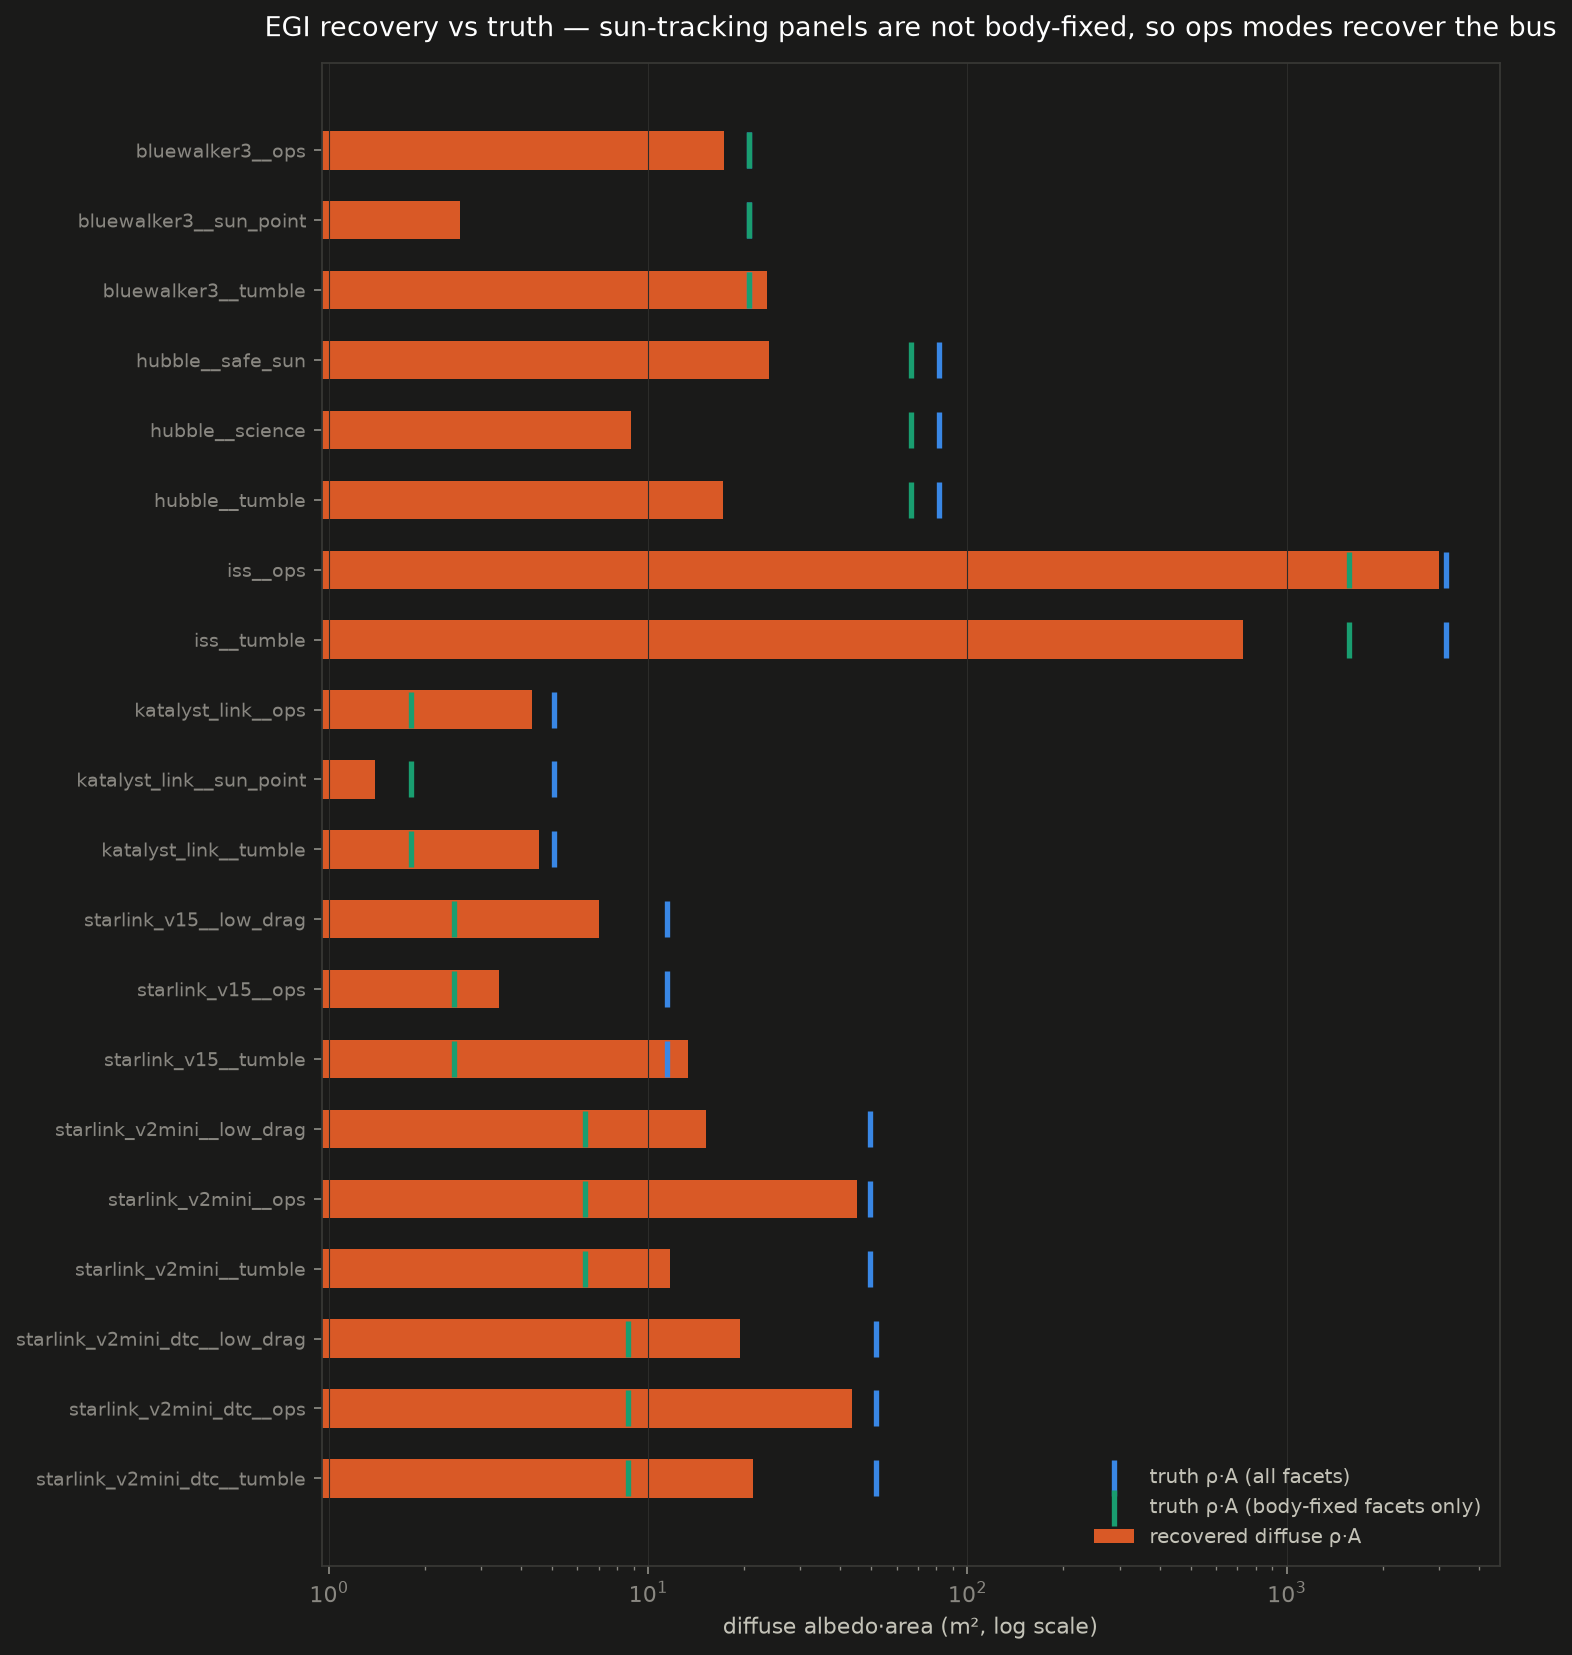
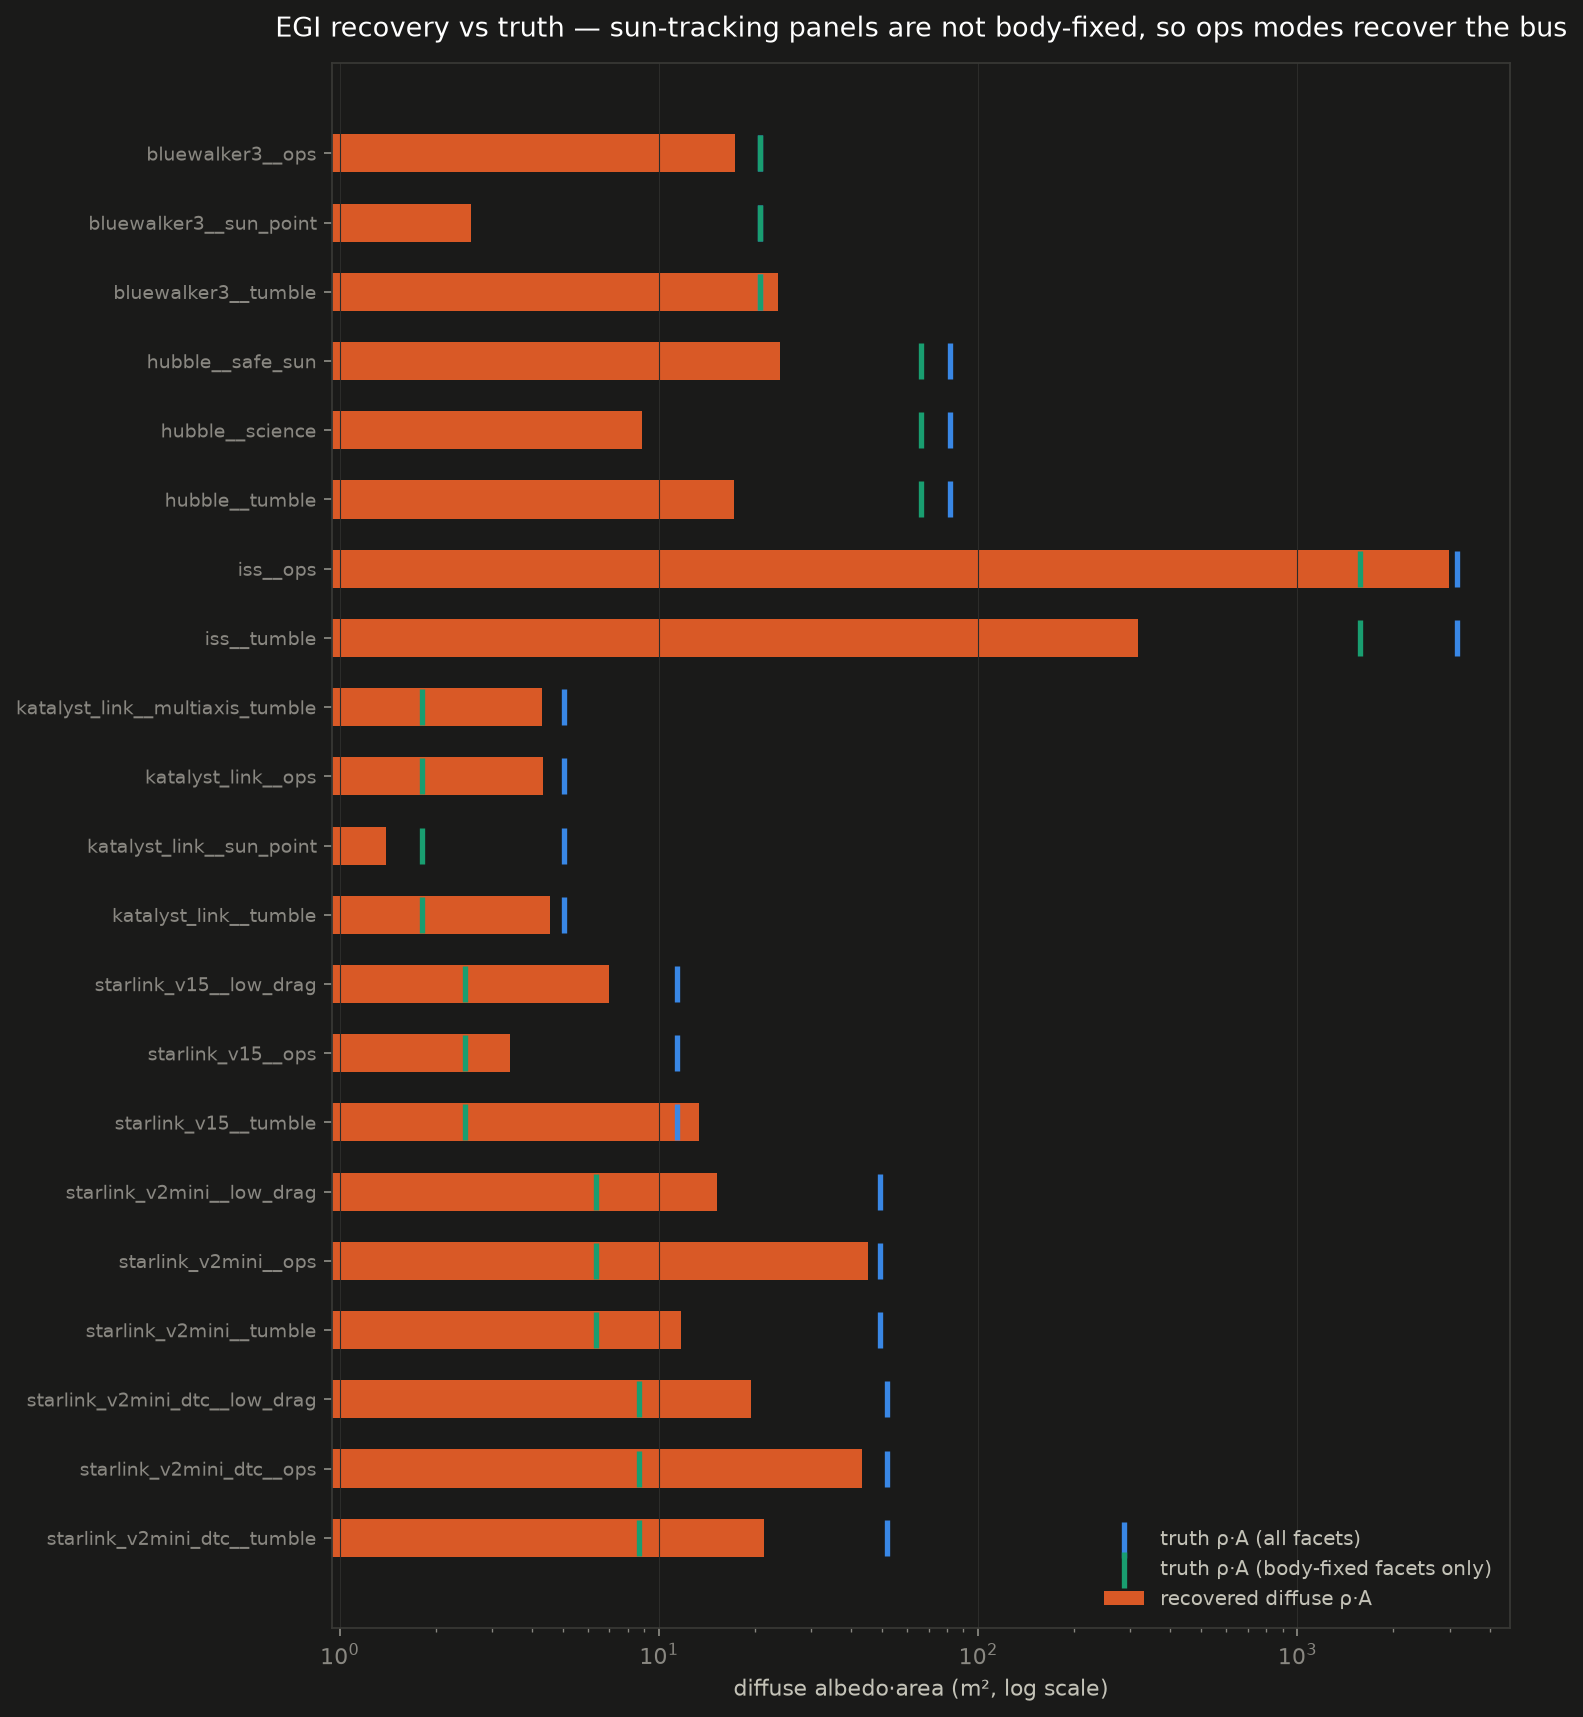
Round 6 final: censored likelihood, torque-free fit, deviation alerting
- ISS censoring analysis: size information restored (truth-attitude ISS
  cost 0.18 vs impostors 8.8+); global attitude search under 80%
  censoring documented open with the ladder recovering pole exactly and
  the second harmonic to 3%
- Torque-free window-laddered fit halves attitude error vs uniform spin
  (97.8 -> 50.7 deg window, 97.6 -> 56.0 deg 4 h prediction); multiaxis
  movie renders the Tier-3 fit in the right panel
- Deviation scan 20/21 with symmetry-group and array-config refinement;
  charts 10-11; README round-6 sections

Claude-Session: https://claude.ai/code/session_018HUFR9zZ7uRcLJ1h3DAMGJ

diff --git a/scripts/make_movies.py b/scripts/make_movies.py
@@ -33,7 +33,8 @@ from matplotlib.animation import FuncAnimation, PillowWriter
 from mpl_toolkits.mplot3d.art3d import Poly3DCollection
 
 from photometry import scenarios as sc
-from photometry.attitude import FixedInertial, LvlhHold, PrincipalAxisSpin
+from photometry.attitude import (FixedInertial, LvlhHold, PrincipalAxisSpin,
+                                 TorqueFreeTumble)
 from photometry.frames import in_earth_shadow, lvlh_basis, minimal_rotation_between, unit
 from photometry.inversion.minkowski import hull_from_egi
 from photometry.shapes import GIMBAL_FIXED, LIBRARY
@@ -170,10 +171,23 @@ def render_movie(name: str, fleet_dir: Path, out_dir: Path) -> Path:
     att_match = attitude_from_spec(ident["hypothesis"], ident["spin"], orbit, sun)
     match_articulate = ident["arrays_tracking"] and match_shape.articulated
 
+    # a Tier-3 torque-free fit, when present, supersedes the uniform spin
+    tf_path = fleet_dir / name / "torquefree.json"
+    if tf_path.exists():
+        tf = json.loads(tf_path.read_text())
+        att_match = TorqueFreeTumble(tuple(tf["inertia_est"]),
+                                     tuple(tf["omega0_est"]),
+                                     np.array(tf["r0"]), t_max=90000.0,
+                                     dt=1.0, t_ref=tf["t_ref"])
+        ident["hypothesis"] = "torque_free"
+        ident["source"] = "Tier-3 torque-free fit"
+        ident["cost"] = tf.get("cost_torquefree_polished",
+                               tf.get("cost_torquefree", float("nan")))
+
     # frame cadence: resolve the spin for tumblers, one orbit for controlled
     p_orb = 2 * np.pi / orbit.mean_motion
     spin_p = result.get("spin_period_est_s")
-    fast = s.mode == "tumble" and spin_p and spin_p < 2000
+    fast = s.mode in ("tumble", "multiaxis_tumble") and spin_p and spin_p < 2000
     frame_dt = (spin_p / 10) if fast else (p_orb / N_FRAMES)
 
     # start the window where the target is sunlit

diff --git a/README.md b/README.md
@@ -133,6 +133,52 @@ right, the Tier-2 identified library model at the identified attitude
 and array articulation over faint truth — with 2D projections onto the
 three LVLH planes below.
 
+## Censored-saturation likelihood
+
+Saturated streaks are recorded as brighter-than-cap lower bounds
+(`ObservationSet.censored`) instead of being dropped, and enter every
+matching/refinement cost as one-sided Tobit terms (`inversion/cost.py`).
+This restores the size information that censoring destroys: with attitude
+known, the ISS model now fits its own tumble data at cost 0.18 vs 8.8+
+for every impostor. The remaining open piece is *global attitude search*
+under ~80% censoring — the bright spin phases are exactly the censored
+ones, so the calibrated periodogram is blind (spin peak 60x below
+orbital harmonics); a censoring-aware coherent period ladder recovers
+the spin pole exactly and the second harmonic to 3%, but that residual
+period error breaks 24 h coherence. Documented path: harmonic-aware
+ladder extension. Operationally the case is already safe — the
+deviation alert flags the resulting misidentification.
+
+## Torque-free (non-principal-axis) dynamics
+
+`TorqueFreeTumble` integrates Euler's equations + attitude kinematics
+(energy conserved to 3e-8 over 2 h) as both truth model and fit target;
+the `katalyst_link__multiaxis_tumble` scenario mirrors LINK's real
+anomaly class. The Tier-3 fit (`inversion/torquefree.py`) is a
+window-laddered multi-start over inertia ratios + initial rate + initial
+attitude, evaluated through a solve_ivp quaternion path verified against
+truth (truth scores 1.04 through the exact fit machinery). Result:
+bus-frame attitude error vs nav truth **halves** relative to the best
+uniform-spin fit (97.8° → 50.7° in-window, 97.6° → 56.0° over a 4 h
+prediction), recovering the dominant rate component (omega_x 0.047 vs
+0.049 rad/s truth) — but full convergence to the global basin exceeds
+Nelder-Mead; CMA-ES or differentiable-dynamics gradients are the
+documented upgrade path.
+
+## Catalog-deviation alerting
+
+`inversion/deviation.py` + `scripts/run_deviation_scan.py`: refine every
+scenario against its identified model, alert on residual structure
+(rms ratio > 1.15) or poor fit (refined cost > 8). **20/21 decisions
+correct** across the fleet plus a seeded-deviation control; getting there
+required refinement to search the discrete symmetry group (90° body-axis
+swaps, 180° flips, pole antipodes) and matching to score fitted attitude
+families under both array configurations. The one flagged
+"false positive" (Hubble's axisymmetric tumble) is arguably a true
+positive: the alert correctly reports that the identified inertial
+attitude cannot explain the frozen arrays sweeping with the real
+rotation.
+
 ![fleet modes](results/charts/06_fleet_modes.png)
 ![fleet EGI](results/charts/07_fleet_egi.png)
 
